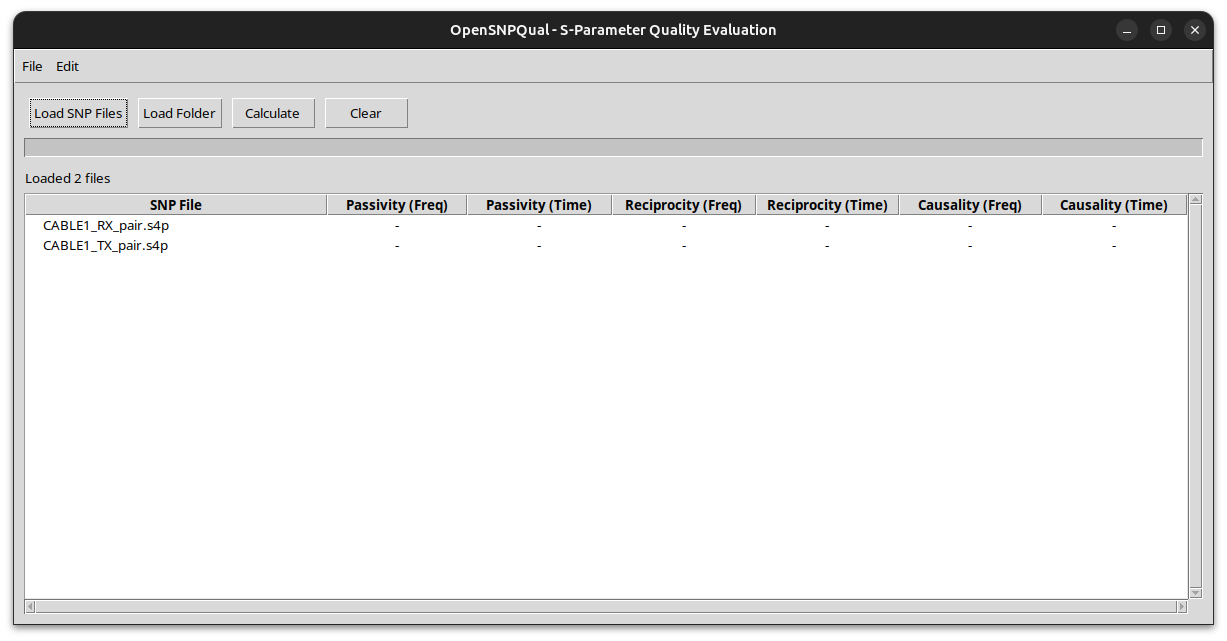
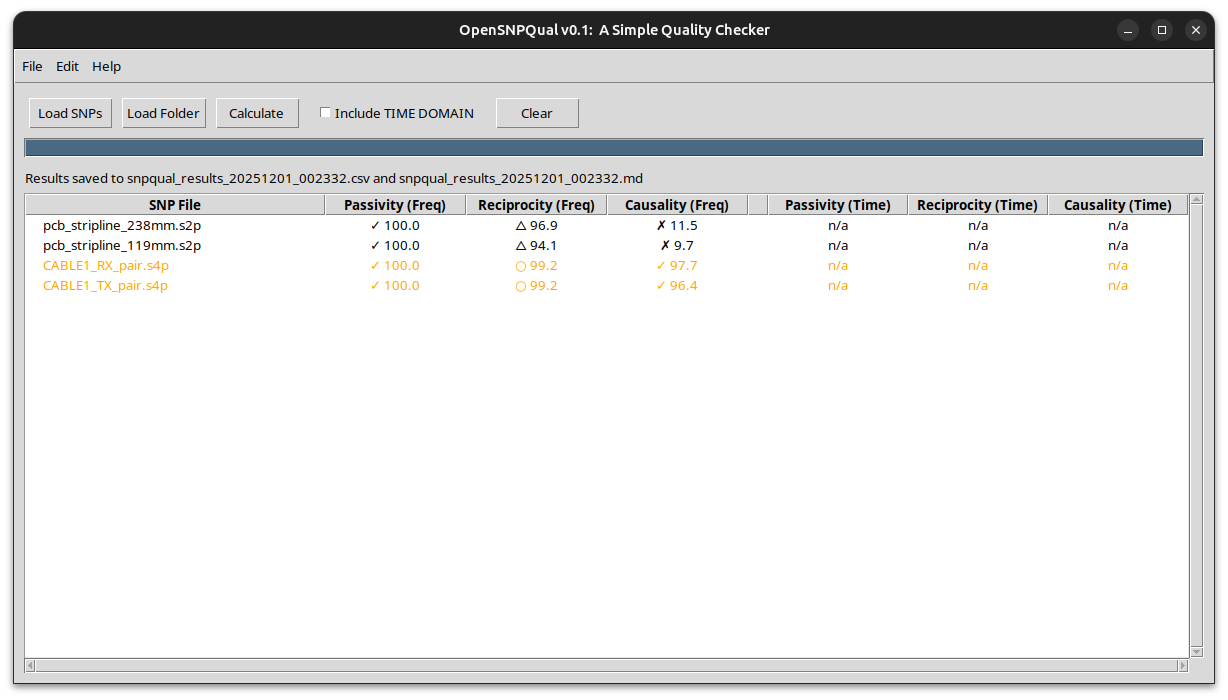
Adjusted metrics to exactly match IEEE370

Changed region(s): [[0.0, 0.0312, 0.991, 0.4368], [0.0, 0.9048, 0.991, 0.9984]]

diff --git a/opensnpqual.py b/opensnpqual.py
@@ -39,12 +39,52 @@ class SParameterQualityMetrics:
     """Calculate S-parameter quality metrics based on IEEE P370 standards"""
     
     def __init__(self):
+        # -------------------------------------------------------------------
+        # Initial (Frequency-domain) thresholds in %, higher = better
+        # PQMi/RQMi
+        #   GOOD:         (99.9, 100]
+        #   ACCEPTABLE:   (99, 99.9]
+        #   INCONCLUSIVE: (80, 99]
+        #   POOR:         [0, 80]
+        #
+        # CQMi
+        #   GOOD:         (80, 100]
+        #   ACCEPTABLE:   (50, 80]
+        #   INCONCLUSIVE: (20, 50]
+        #   POOR:         [0, 20]
+        # -------------------------------------------------------------------
         self.freq_thresholds = {
-            'passivity': {'great': 0.01, 'good': 0.05, 'acceptable': 0.1, 'bad': float('inf')},
-            'reciprocity': {'great': 0.01, 'good': 0.05, 'acceptable': 0.1, 'bad': float('inf')},
-            'causality': {'great': 0.01, 'good': 0.05, 'acceptable': 0.1, 'bad': float('inf')}
+            'passivity':    {'good': 99.9, 'acceptable': 99.0, 'inconclusive': 80.0},
+            'reciprocity':  {'good': 99.9, 'acceptable': 99.0, 'inconclusive': 80.0},
+            'causality':    {'good': 80.0,  'acceptable': 50.0, 'inconclusive': 20.0},
+        }
+
+        # -------------------------------------------------------------------
+        # Application-based (Time-domain) thresholds in mV, lower = better
+        # PQMa/RQMa/CQMa
+        #   GOOD:         [0, 5)
+        #   ACCEPTABLE:   [5, 10)
+        #   INCONCLUSIVE: [10, 15)
+        #   POOR:         [15, +∞)
+        # -------------------------------------------------------------------
+        self.time_thresholds = {
+            'passivity':    {'good': 5.0, 'acceptable': 10.0, 'inconclusive': 15.0},
+            'reciprocity':  {'good': 5.0, 'acceptable': 10.0, 'inconclusive': 15.0},
+            'causality':    {'good': 5.0, 'acceptable': 10.0, 'inconclusive': 15.0},
         }
     
+    def get_quality_level(self, metric_name: str, value: float, domain: str = "freq") -> str:
+            """
+            Backwards-compatible wrapper used by older code paths (e.g. save_markdown_results).
+
+            domain = "freq" → use Initial (frequency-domain) thresholds (PQM/RQM/CQM in %)
+            domain = "time" → use Application-based (time-domain) thresholds (mV)
+            """
+            if domain == "time":
+                return self.get_time_quality_level(metric_name, value)
+            else:
+                return self.get_freq_quality_level(metric_name, value)
+
     def load_touchstone(self, filepath: str) -> Optional[rf.Network]:
         """Load touchstone file using scikit-rf"""
         try:
@@ -175,21 +215,44 @@ class SParameterQualityMetrics:
             print(f"Error in time domain conversion: {str(e)}")
             return None
     
-    def get_quality_level(self, metric_name: str, value: float) -> str:
-        """Determine quality level based on thresholds"""
-        if value < 0:  # Error indicator
+
+    def get_freq_quality_level(self, metric_name: str, value: float) -> str:
+        """Return GOOD / ACCEPTABLE / INCONCLUSIVE / POOR for % metrics."""
+        if value < 0:
             return "error"
-        
-        thresholds = self.freq_thresholds.get(metric_name, self.freq_thresholds['passivity'])
-        
-        if value <= thresholds['great']:
-            return "great"
-        elif value <= thresholds['good']:
+
+        t = self.freq_thresholds[metric_name]
+        # thresholds store lower bounds
+        good = t['good']
+        acceptable = t['acceptable']
+        inconclusive = t['inconclusive']
+
+        if value > good:
             return "good"
-        elif value <= thresholds['acceptable']:
+        elif value > acceptable:
             return "acceptable"
+        elif value > inconclusive:
+            return "inconclusive"
         else:
-            return "bad"
+            return "poor"
+
+
+    def get_time_quality_level(self, metric_name: str, value: float) -> str:
+        """Return GOOD / ACCEPTABLE / INCONCLUSIVE / POOR for time (mV)."""
+        if value < 0:
+            return "error"
+
+        t = self.time_thresholds[metric_name]
+        # thresholds store upper bounds
+        if value < t['good']:
+            return "good"
+        elif value < t['acceptable']:
+            return "acceptable"
+        elif value < t['inconclusive']:
+            return "inconclusive"
+        else:
+            return "poor"
+
     
     def evaluate_file(self, filepath: str) -> Dict[str, any]:
         """Evaluate all quality metrics for a single file"""
@@ -284,20 +347,36 @@ class OpenSNPQualCLI:
     def save_markdown_results(self, results: List[Dict], output_file: str):
         """Save results to Markdown file with color coding"""
         with open(output_file, 'w') as f:
-            f.write("# OpenSNPQual - S-Parameter Quality Report\n\n")
+            f.write(f"# OpenSNPQual {OPENSNPQUAL_VERSION}:  A Simple Quality Checker -- REPORT\n\n")
             f.write(f"Generated: {datetime.now().strftime('%Y-%m-%d %H:%M:%S')}\n\n")
             
             # Quality level legend
-            f.write("## Quality Levels\n")
-            f.write("- 🟢 **Great**: < 0.01\n")
-            f.write("- 🔵 **Good**: 0.01 - 0.05\n")
-            f.write("- 🟡 **Acceptable**: 0.05 - 0.1\n")
-            f.write("- 🔴 **Bad**: > 0.1\n\n")
             
+            f.write("## 📊 Quality Metrics Table - Initial (Frequency Domain) - good for quick check\n")
+            f.write("\n")
+            f.write("| Level | Symbol | Passivity (PQMi) | Reciprocity (RQMi)  | Causality (CQMi) | Description |\n")
+            f.write("|-------|--------|-----------|-----------|-----------|-------------|\n")
+            f.write("| 🟢 Good | ✓ | (99.9, 100] | (99.9, 100]  | (80, 100] | Excellent quality, suitable for critical applications |\n")
+            f.write("| 🔵 Acceptable | ○ | (99, 99.9] | (99, 99.9] | (50, 80] | OK quality, may not be suitable for sensitive applications like de-embedding |\n")
+            f.write("| 🟡 Inconclusive | △ | (80, 99] | (80, 99] | (20, 50] | Marginal quality, unlikely to be reliable |\n")
+            f.write("| 🔴 POOR | ✗ | [0, 80] | [0, 80] | [0, 20] | Poor quality, do not use! Re-measurement (+ VNA recalibration) recommended |\n")
+            f.write("\n")
+            f.write("## 📊 Quality Metrics Table - Application-based (Time Domain) - rigorously computed\n")
+            f.write("\n")
+            f.write("| Level | Symbol | Passivity (PQMa) | Reciprocity (RQMa)  | Causality (CQMa) | Description |\n")
+            f.write("|-------|--------|-----------|-----------|-----------|-------------|\n")
+            f.write("| 🟢 Good | ✓ | [0 mV, 5 mV) | [0 mV, 5 mV) | [0 mV, 5 mV) | Excellent quality, suitable for critical applications |\n")
+            f.write("| 🔵 Acceptable | ○ | [5 mV, 10 mV) | [5 mV, 10 mV) | [5 mV, 10 mV) | OK quality, may not be suitable for sensitive applications like de-embedding |\n")
+            f.write("| 🟡 Inconclusive | △ | [10 mV, 15 mV) | [10 mV, 15 mV) | [10 mV, 15 mV) | Marginal quality, unlikely to be reliable |\n")
+            f.write("| 🔴 POOR | ✗ | [15 mV, +∞) | [15 mV, +∞) | [15 mV, +∞) | Poor quality, do not use! Re-measurement (+ VNA recalibration) recommended |\n")
+            f.write("\n")
+            f.write("Reference:\"[IEEE Standard for Electrical Characterization of Printed Circuit Board and Related Interconnects at Frequencies up to 50 GHz,](https://ieeexplore.ieee.org/document/9316329/)\" in IEEE Std 370-2020 , vol., no., pp.1-147, 8 Jan. 2021, doi: 10.1109/IEEESTD.2021.9316329. \n")
+            f.write("\n")
+                    
             # Results table
             f.write("## Results\n\n")
-            f.write("| Filename | Passivity (Freq) | Reciprocity (Freq) | Causality (Freq) |  | "
-                    "Passivity (Time) | Reciprocity (Time) | Causality (Time) |\n")
+            f.write("| Filename | Passivity (PQMi, Freq) | Reciprocity (RQMi, Freq) | Causality (CQMi, Freq) |  | "
+                    "Passivity (PQMa, Time) | Reciprocity (RQMa, Time) | Causality (CQMa, Time) |\n")
             f.write("|----------|------------------|--------------------|------------------|----|"
                     "------------------|--------------------|------------------|\n")
 
@@ -318,14 +397,21 @@ class OpenSNPQualCLI:
                         if value == '-' or value < 0:
                             target_list.append("❌ n/a")
                         else:
-                            level = self.metrics.get_quality_level(metric, value)
+                            if domain == 'freq':
+                                # Initial (Frequency Domain) classifier in %
+                                level = self.metrics.get_freq_quality_level(metric, value)
+                            else:
+                                # Application-based (Time Domain) classifier in mV
+                                level = self.metrics.get_time_quality_level(metric, value)
+
                             emoji = {
-                                'great': '🟢',
-                                'good': '🔵',
-                                'acceptable': '🟡',
-                                'bad': '🔴',
+                                'good':         '🟢',
+                                'acceptable':   '🔵',
+                                'inconclusive': '🟡',
+                                'poor':         '🔴',
+                                'error':        '❌',
                             }.get(level, '❌')
-                            target_list.append(f"{emoji} {value:.4f}")
+                            target_list.append(f"{emoji} {value:.1f}")
 
                 # Insert a blank separator column between FREQ and TIME sections
                 row.extend(freq_cells + [""] + time_cells)
@@ -475,14 +561,14 @@ class OpenSNPQualGUI:
 
         # Define column headings
         self.tree.heading('#0', text='SNP File')
-        self.tree.heading('passivity_freq', text='Passivity (Freq)')
-        self.tree.heading('reciprocity_freq', text='Reciprocity (Freq)')
-        self.tree.heading('causality_freq', text='Causality (Freq)')
+        self.tree.heading('passivity_freq', text='Passivity \n(PQMi, Freq)')
+        self.tree.heading('reciprocity_freq', text='Reciprocity \n(RQMi, Freq)')
+        self.tree.heading('causality_freq', text='Causality \n(CQMi, Freq)')
         # Separator column has no label – it's just a visual gap
         self.tree.heading('separator', text='')
-        self.tree.heading('passivity_time', text='Passivity (Time)')
-        self.tree.heading('reciprocity_time', text='Reciprocity (Time)')
-        self.tree.heading('causality_time', text='Causality (Time)')
+        self.tree.heading('passivity_time', text='Passivity \n(PQMa, Time)')
+        self.tree.heading('reciprocity_time', text='Reciprocity \n(RQMa, Time)')
+        self.tree.heading('causality_time', text='Causality \n(CQMa, Time)')
 
         # Configure column widths
         self.tree.column('#0', width=300)
@@ -655,31 +741,48 @@ class OpenSNPQualGUI:
                             level = self.cli.metrics.get_quality_level(metric, value)
                             # Use Unicode symbols for quality levels
                             symbol = {
-                                'great': '✓',
-                                'good': '○',
-                                'acceptable': '△',
-                                'bad': '✗',
+                                'good':         '✓',
+                                'acceptable':   '○',
+                                'inconclusive': '△',
+                                'poor':         '✗',
+                                'error':        '?',
                             }.get(level, '?')
-                            target_list.append(f"{symbol} {value:.4f}")
+                            target_list.append(f"{symbol} {value:.1f}")
 
                 # Insert a blank separator between FREQ and TIME sections
                 values = freq_values + [''] + time_values
                 self.tree.item(item, values=values)
                 
-                # Determine overall quality for row coloring
-                max_value = max([v for k, v in result.items() 
-                               if k.endswith('_freq') or k.endswith('_time')])
-                if max_value < 0:
+                # Determine overall quality for row coloring based on
+                # the worst of ALL metrics that were actually calculated
+                levels = []
+
+                for metric in ['passivity', 'reciprocity', 'causality']:
+                    # Frequency-domain metric (Initial table, %)
+                    v_freq = result.get(f"{metric}_freq", -1)
+                    if isinstance(v_freq, (int, float)) and v_freq >= 0:
+                        levels.append(self.cli.metrics.get_freq_quality_level(metric, v_freq))
+
+                    # Time-domain metric (Application table, mV)
+                    v_time = result.get(f"{metric}_time", -1)
+                    if isinstance(v_time, (int, float)) and v_time >= 0:
+                        levels.append(self.cli.metrics.get_time_quality_level(metric, v_time))
+
+                if not levels:
                     tag = 'error'
-                elif max_value <= 0.01:
-                    tag = 'great'
-                elif max_value <= 0.05:
-                    tag = 'good'
-                elif max_value <= 0.1:
-                    tag = 'acceptable'
                 else:
-                    tag = 'bad'
-                
+                    # Map quality labels to an ordinal, then choose the worst
+                    rank = {
+                        'poor': 0,
+                        'inconclusive': 1,
+                        'acceptable': 2,
+                        'good': 3,
+                        'error': -1,  # optional
+                    }
+                    worst_rank = min(rank.get(lvl, 0) for lvl in levels)
+                    inv_rank = {v: k for k, v in rank.items()}
+                    tag = inv_rank.get(worst_rank, 'poor')
+
                 self.tree.item(item, tags=(tag,))
                 break
     
@@ -912,11 +1015,12 @@ class OpenSNPQualGUI:
             )
             
             results.update({
-                'passivity_freq': (100 - passivity_freq) / 100,
-                'passivity_time': passivity_time_mv / 2,  # Divide by 2 as per your test
-                'reciprocity_freq': (100 - reciprocity_freq) / 100,
+                # Frequency-domain metrics are 0–100 % (IEEE P370 PQMi/RQMi/CQMi)
+                'passivity_freq': passivity_freq,
+                'passivity_time': passivity_time_mv / 2,  # still mV, as before
+                'reciprocity_freq': reciprocity_freq,
                 'reciprocity_time': reciprocity_time_mv / 2,
-                'causality_freq': (100 - causality_freq) / 100,
+                'causality_freq': causality_freq,
                 'causality_time': causality_time_mv / 2
             })
             
@@ -949,13 +1053,15 @@ class OpenSNPQualGUI:
             )
             
             results.update({
-                'passivity_freq': (100 - passivity_freq) / 100,
+                # Frequency-domain metrics are 0–100 % (IEEE P370 PQMi/RQMi/CQMi)
+                'passivity_freq': passivity_freq,     
                 'passivity_time': '-',
-                'reciprocity_freq': (100 - reciprocity_freq) / 100,
+                'reciprocity_freq': reciprocity_freq,
                 'reciprocity_time': '-',
-                'causality_freq': (100 - causality_freq) / 100,
+                'causality_freq': causality_freq,
                 'causality_time': '-'
             })
+
             
         except Exception as e:
             results.update({
